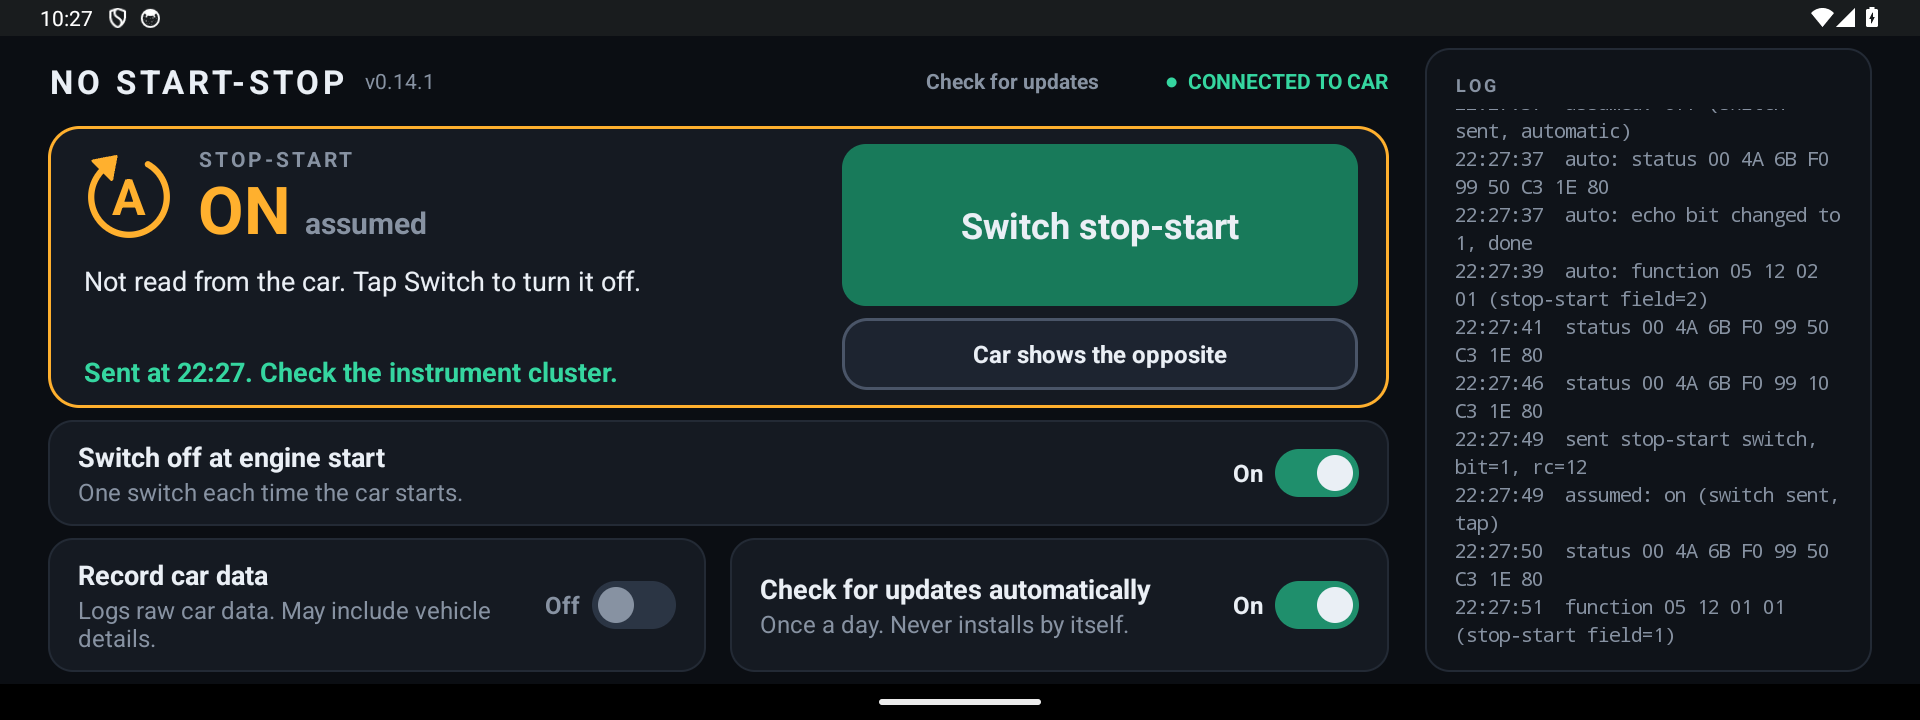
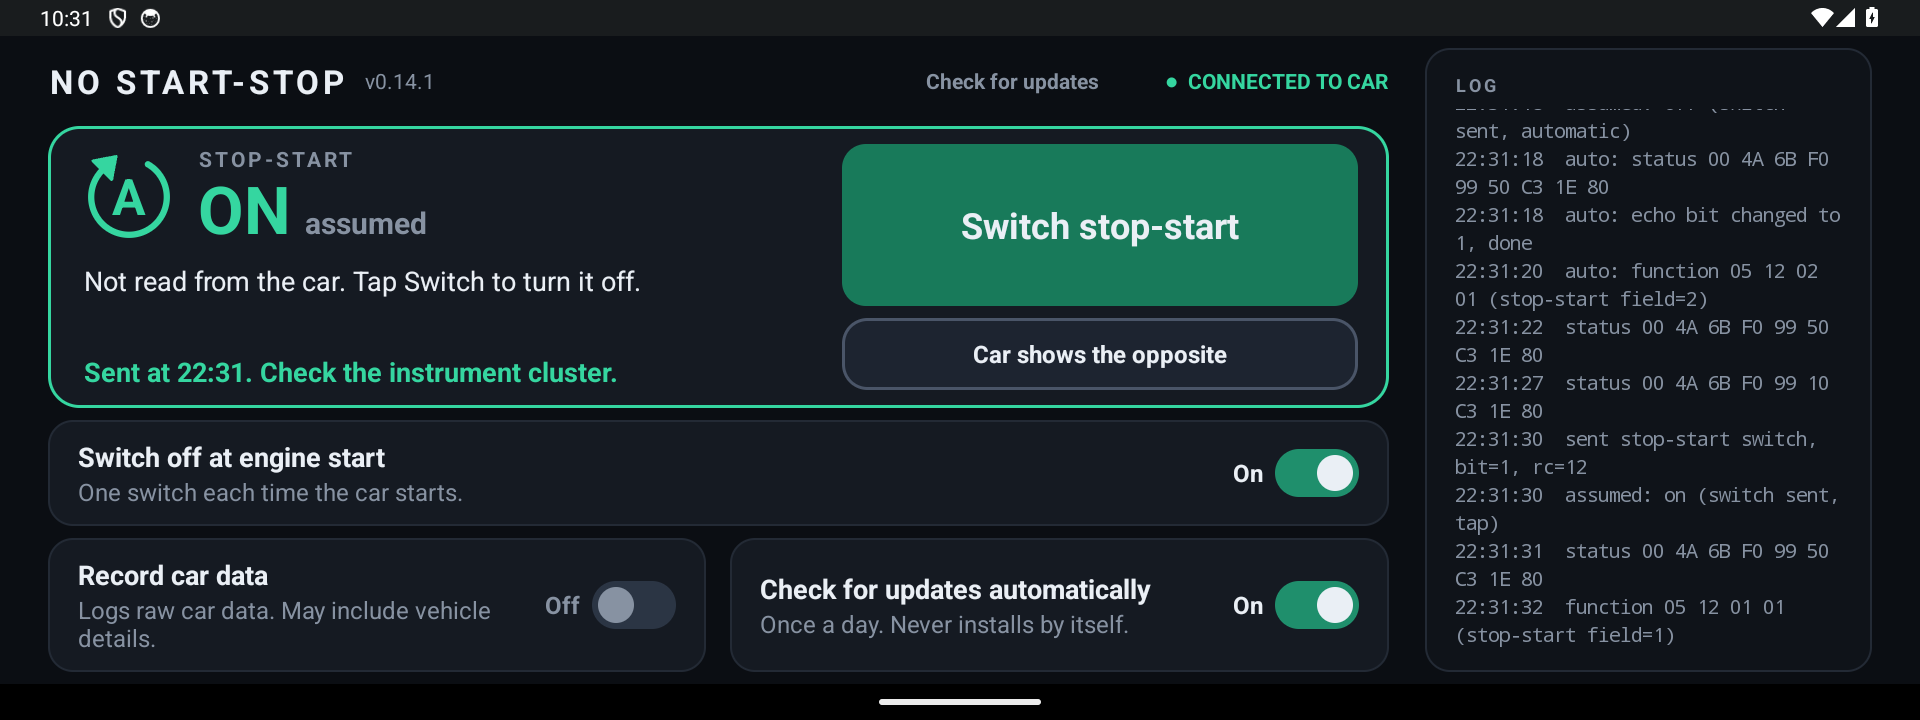
Show an assumed ON state in the accent green, not amber

diff --git a/src/com/furgo/nostartstop/MainActivity.java b/src/com/furgo/nostartstop/MainActivity.java
@@ -199,7 +199,7 @@ public class MainActivity extends Activity implements CanBox.Listener {
             paint.setStrokeJoin(Paint.Join.ROUND);
             paint.setPathEffect(null);
             if (state != AssumedState.UNKNOWN) {
-                int color = state == AssumedState.ON ? WARN : TEXT;
+                int color = state == AssumedState.ON ? ACCENT : TEXT;
                 float r = u * 0.42f, sw = u * 0.07f;
                 paint.setStyle(Paint.Style.STROKE);
                 paint.setStrokeWidth(sw);
@@ -683,9 +683,9 @@ public class MainActivity extends Activity implements CanBox.Listener {
                 : pressable(NEUTRAL, NEUTRAL_PRESSED, 2));
 
         int assumed = Prefs.assumedState(this);
-        int stateColor = assumed == AssumedState.OFF ? TEXT : assumed == AssumedState.ON ? WARN : MUTED;
+        int stateColor = assumed == AssumedState.OFF ? TEXT : assumed == AssumedState.ON ? ACCENT : MUTED;
         badge.setState(assumed);
-        stateCard.setBackgroundDrawable(shape(CARD, 20, 2, assumed == AssumedState.UNKNOWN ? CARD_EDGE : assumed == AssumedState.OFF ? 0xFF5B6678 : WARN));
+        stateCard.setBackgroundDrawable(shape(CARD, 20, 2, assumed == AssumedState.UNKNOWN ? CARD_EDGE : assumed == AssumedState.OFF ? 0xFF5B6678 : ACCENT));
         String word = assumed == AssumedState.UNKNOWN ? "UNKNOWN" : AssumedState.name(assumed).toUpperCase(Locale.ROOT);
         SpannableStringBuilder sb = new SpannableStringBuilder(word);
         if (assumed != AssumedState.UNKNOWN) {

diff --git a/README.md b/README.md
@@ -33,7 +33,7 @@ The screenshots are from an emulator at 1920x720 with a simulated CAN box: the m
 ## What it does
 
 - **Switch stop-start**: one button that sends one switch command to the car. The command is a toggle: each tap turns stop-start off if it was on, and on if it was off.
-- **Assumed state**: the car does not report whether stop-start is on or off, so the card shows the state the app assumes, as a large **OFF** (white), **ON** (amber) or **UNKNOWN** (grey). Beside the word is the stop-start symbol, the "A" in a circular arrow: struck through for OFF, plain for ON, replaced by a dashed ring with "?" for UNKNOWN. OFF and ON carry the word "assumed"; the card says it is not read from the car. The instrument cluster shows a message when stop-start is switched off or on; look there to be sure. See [the assumed state](#the-assumed-stop-start-state).
+- **Assumed state**: the car does not report whether stop-start is on or off, so the card shows the state the app assumes, as a large **OFF** (white), **ON** (green) or **UNKNOWN** (grey). Beside the word is the stop-start symbol, the "A" in a circular arrow: struck through for OFF, plain for ON, replaced by a dashed ring with "?" for UNKNOWN. OFF and ON carry the word "assumed"; the card says it is not read from the car. The instrument cluster shows a message when stop-start is switched off or on; look there to be sure. See [the assumed state](#the-assumed-stop-start-state).
 - **Car shows the opposite**: tap it when the instrument cluster disagrees with the assumed state. It writes one line to the log with what led to the assumed state and flips the shown state. It sends nothing to the car. It is greyed out while the state is unknown, while a tap's command is being sent, while **Switch off at engine start** is sending ("Switching…"), and for 2 seconds after each report. The card then says "Noted in the log. Nothing sent to the car.", or, past the daily limit of report lines, "Changed, but not logged: too many reports today. Nothing sent to the car."
 - **Feedback**: a tap first asks the CAN box for a fresh status frame and picks the command from it, then sends. The button shows "Sending…" meanwhile. The card then says:
   - "Sent at HH:mm. Check the instrument cluster." once the CAN box echoes the command. When the command's bit is 0 the echo cannot confirm it, so this shows as soon as it is sent.
